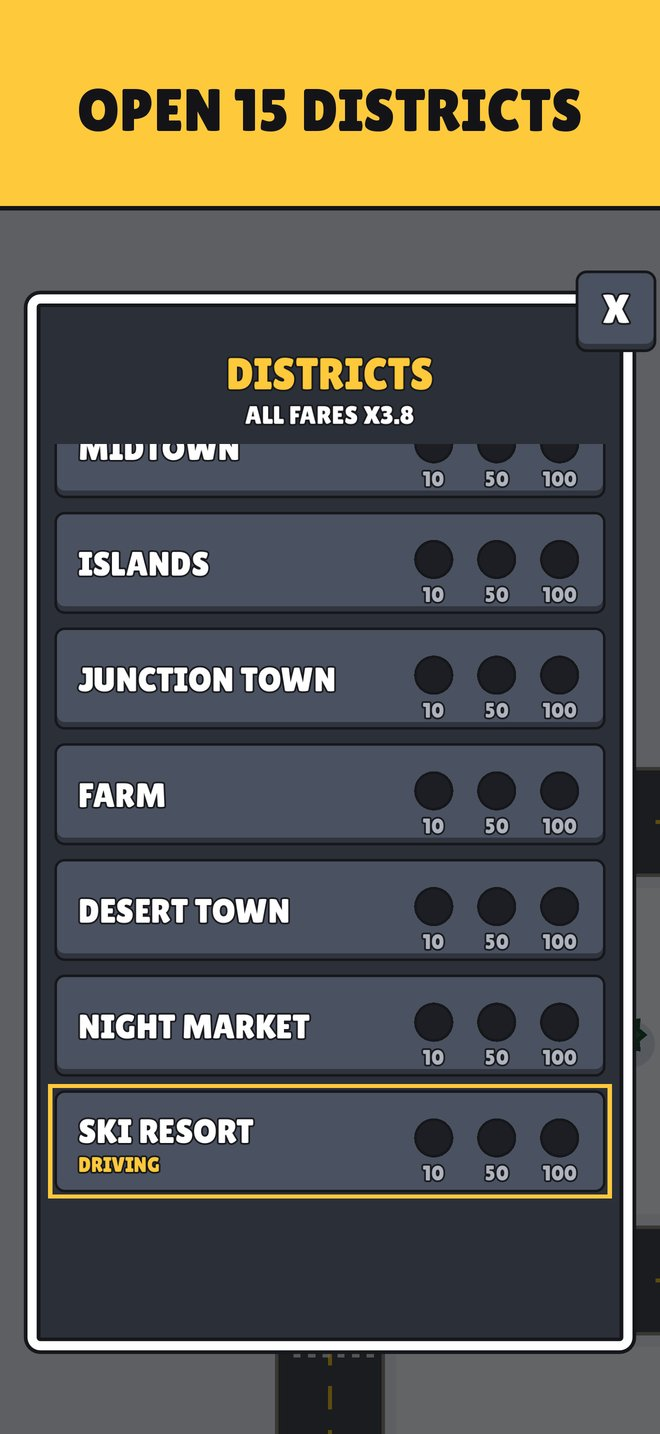
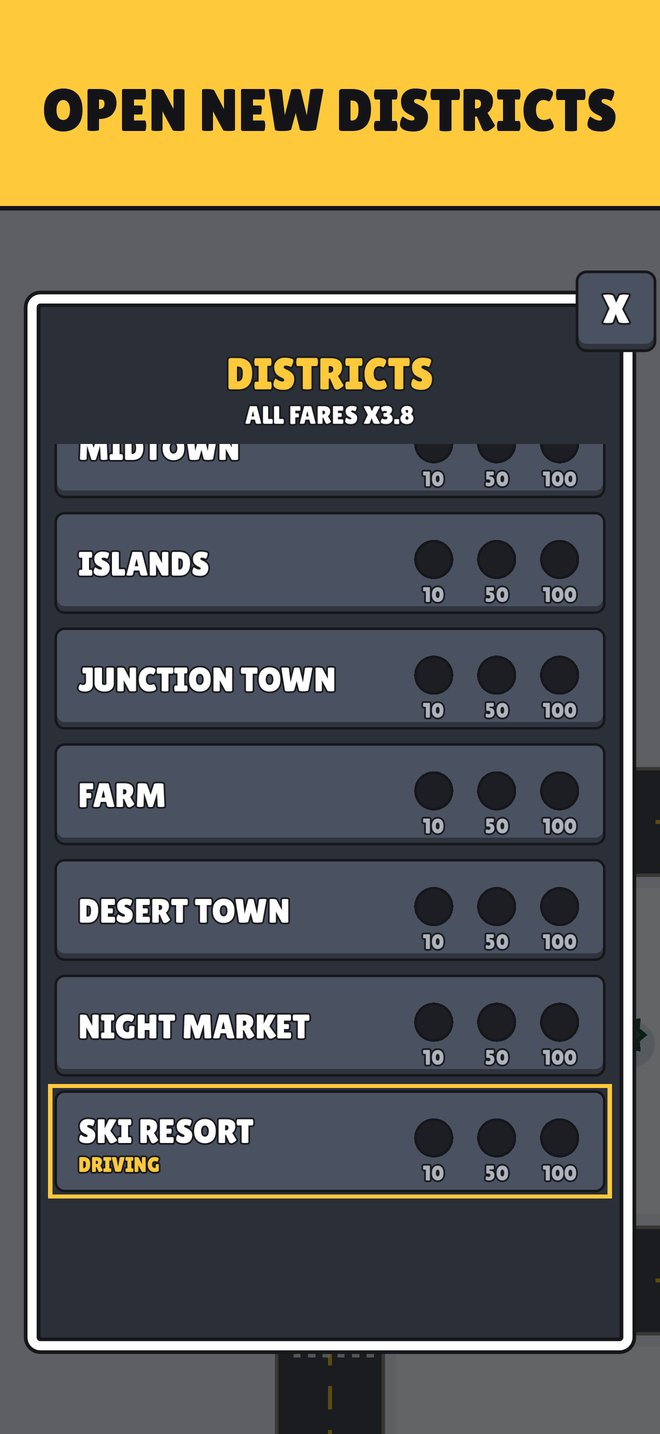
Taxi Dash page: no counts of districts or cabs

Changed region(s): [[0.0606, 0.0614, 0.9394, 0.0921]]

diff --git a/taxi-dash/index.html b/taxi-dash/index.html
@@ -200,8 +200,8 @@
         <h2>A city full of people in a hurry</h2>
         <p>You get a clock, a cab and an edge-of-screen compass. The route is up to you. Stop in the zone for a full tip, swing a U-turn into a pickup for a bonus, or grab a bolt in the road and let a super boost take over.</p>
         <ul class="facts">
-          <li><strong>15 districts</strong>, each changing how you drive: lifting bridges, traffic lights, dust storms, match days, icy slopes and power cuts.</li>
-          <li><strong>17 cabs</strong> to collect card by card, from a golf cart and an ice cream van to a fire truck and a monster truck.</li>
+          <li><strong>Districts</strong> that each change how you drive: lifting bridges, traffic lights, dust storms, match days, icy slopes and power cuts.</li>
+          <li><strong>Cabs</strong> to collect card by card, from a golf cart and an ice cream van to a fire truck and a monster truck.</li>
           <li><strong>Driving School</strong> lessons teach every move, and a bump only slows you down.</li>
           <li><strong>A weekend shift</strong> that's the same for everyone, with its own Game Center leaderboard.</li>
         </ul>
@@ -240,8 +240,8 @@
         <a href="media/shot1.jpg"><img src="media/shot1.jpg" alt="Pick up. Drift. Drop off: the taxi beside a waiting passenger on the Islands" width="660" height="1434"></a>
         <a href="media/shot2.jpg"><img src="media/shot2.jpg" alt="Grab a bolt. Go super: a super boost on the Seaside" width="660" height="1434"></a>
         <a href="media/shot3.jpg"><img src="media/shot3.jpg" alt="Beat the lifting bridges: a bridge lifting in Bridgeport" width="660" height="1434"></a>
-        <a href="media/shot4.jpg"><img src="media/shot4.jpg" alt="Open 15 districts: the Districts page with its medals" width="660" height="1434"></a>
-        <a href="media/shot5.jpg"><img src="media/shot5.jpg" alt="Collect 17 cabs: the Cards page" width="660" height="1434"></a>
+        <a href="media/shot4.jpg"><img src="media/shot4.jpg" alt="Open new districts: the Districts page with its medals" width="660" height="1434"></a>
+        <a href="media/shot5.jpg"><img src="media/shot5.jpg" alt="Collect every cab: the Cards page" width="660" height="1434"></a>
         <a href="media/shot6.jpg"><img src="media/shot6.jpg" alt="A weekend shift for everyone: the Weekend Shift page and its leaderboard" width="660" height="1434"></a>
       </div>
     </div>
